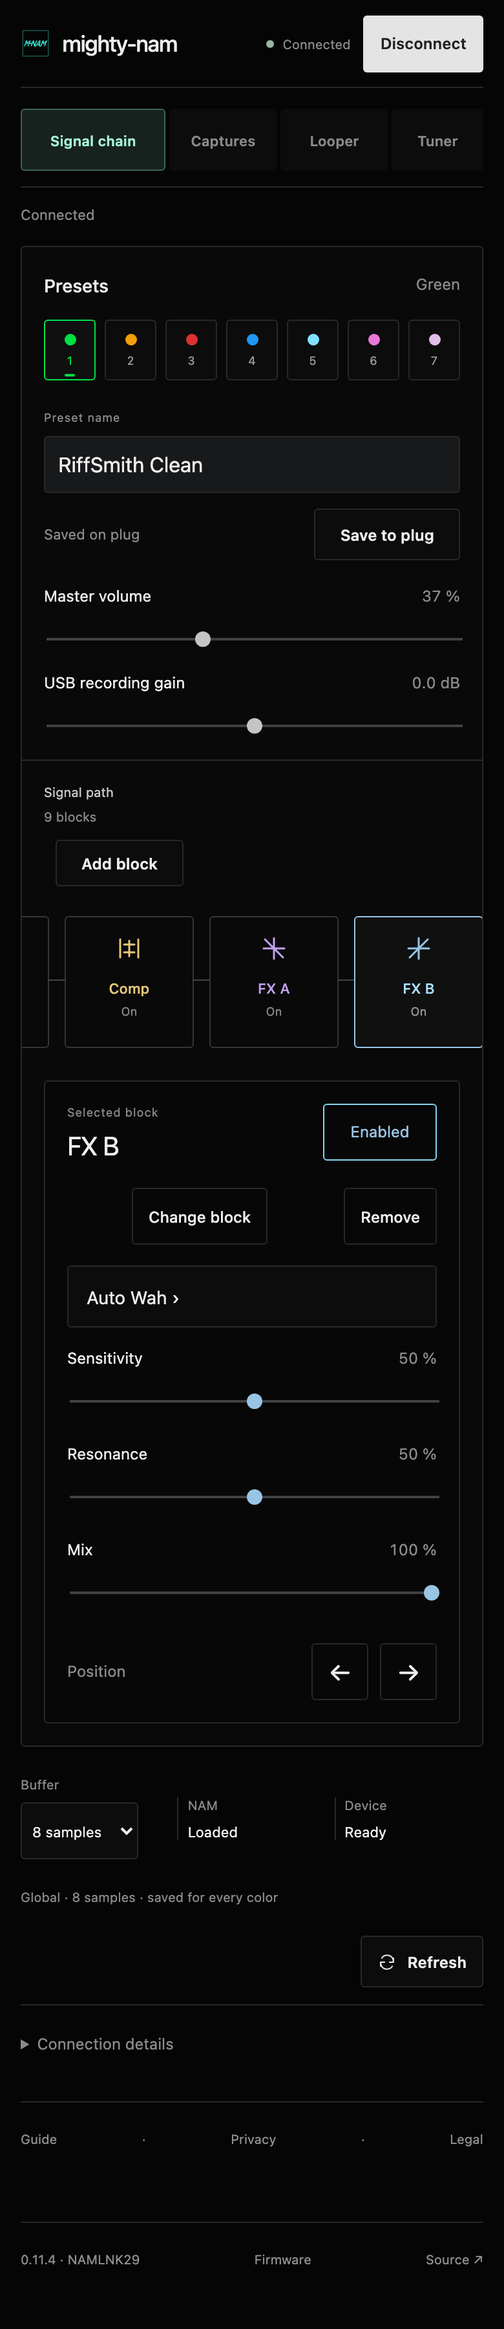
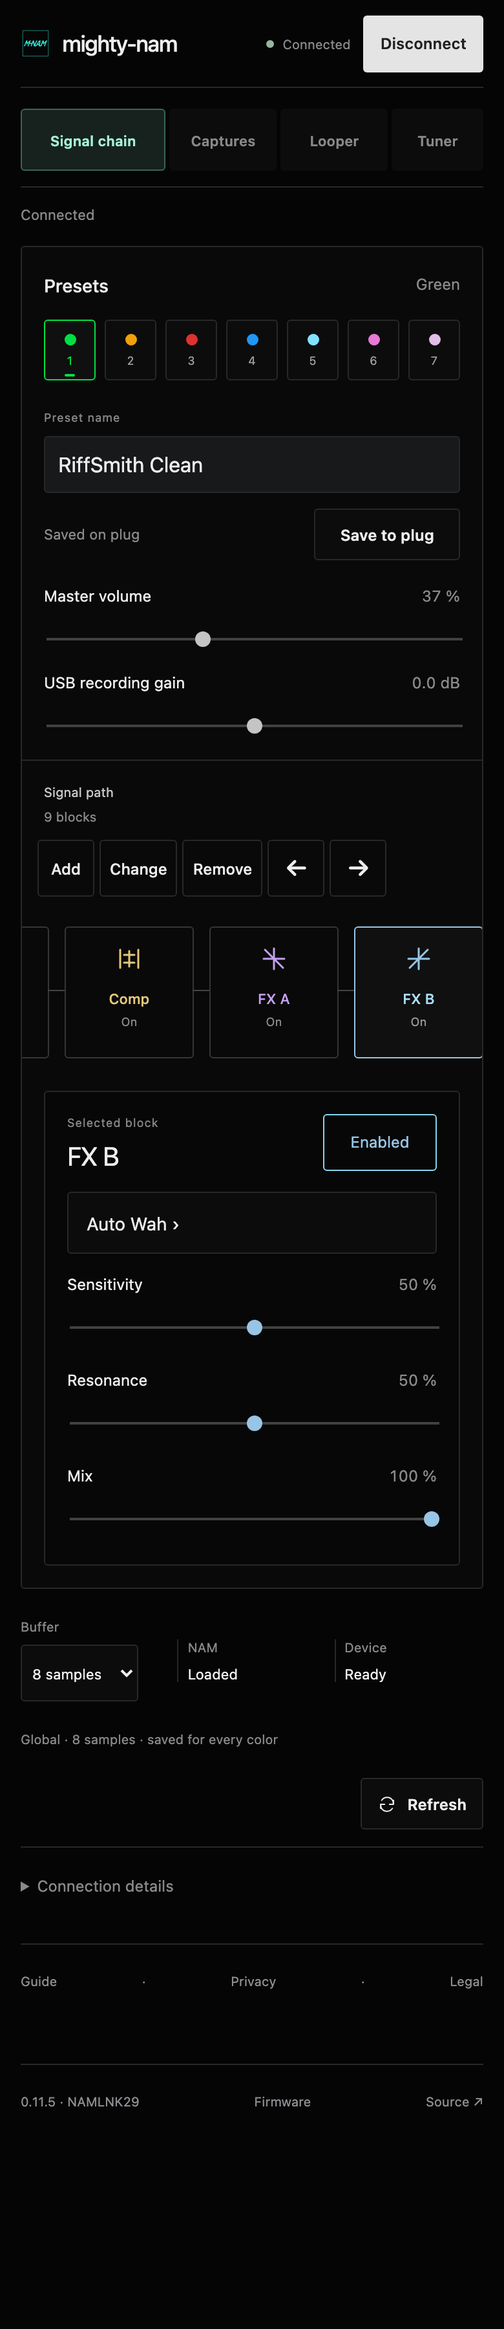
Refresh phone toolbar screenshots and controller links

diff --git a/docs/status.html b/docs/status.html
@@ -1,1 +1,1 @@
-<!doctype html><html lang="en"><head><meta charset="utf-8"><meta name="viewport" content="width=device-width,initial-scale=1"><meta name="theme-color" content="#08090b"><meta name="color-scheme" content="dark"><meta name="description" content="Implemented features, measured results and the next hardware checks."><title>Build status — mighty-nam</title><link rel="icon" href="assets/brand/mighty-nam.svg" type="image/svg+xml"><link rel="apple-touch-icon" href="assets/brand/mighty-nam-icon.png"><link rel="stylesheet" href="assets/style.css?v=0.6.0"></head><body><a class="skip" href="#main">Skip to content</a><header><div class="top"><a class="brand" href="index.html"><img src="assets/brand/mighty-nam.svg" alt="" width="34" height="34">mighty-nam<span>by santismo</span></a><a class="source" href="https://github.com/santismo/mighty-nam">Source ↗</a></div><nav aria-label="Main"><a href="index.html">Overview</a><a href="guide.html">Mac & firmware</a><a href="looper-builder.html">Builder</a><a href="phone.html">iPhone</a><a href="status.html" aria-current="page">Status</a><a href="development.html">Develop</a></nav></header><main id="main"><div class="intro"><p class="eyebrow">MIGHTY PLUG PRO · A2 LITE · 48 KHZ</p><h1>Build status</h1><p>Current preview: NAMLNK29 revision 2, Mac 0.6.1 and phone controller 0.11.4. Stock-amp previews are withdrawn.</p><p class="lead">Implemented features, measured results and the next hardware checks.</p></div><section id="current"><h2>Current releases</h2><div class="grid"><article><h3>Mac 0.6.1</h3><p>Public preview with NAMLNK23–29 support and both wah choices on 24–29, persistent official capture browsing, bounded API lists and updated branding/notices. Ad-hoc signed; not notarized.</p></article><article><h3>Phone 0.11.4</h3><p>Live controls, presets, tuner and TONE3000 A2 Lite transfers through Bluefy. Public source and page use mighty-nam-controller.</p></article><article><h3>NAMLNK29 / builder 0.6.2</h3><p>Local builder for the exact public NUX V3.0.5 Original file. Starts with all seven editable colors, repeating three MIT-licensed RiffSmith A2 Lite captures. End users install their locally generated image with the NUX updater.</p></article></div></section><section id="evidence"><h2>What the evidence says</h2><p>NAMLNK23 executes 12,335 compiled audio callbacks across the offline USB/NAM, stock-chain and dual-pitch suites. Representative effects, 64 stock type switches, bypass skipping, both MIDI paths, seven-color cold/warm recall and global buffer persistence pass. All peripherals and timing are modeled; this is not a physical latency or recovery measurement.</p><p>Mac 0.6.1 and phone 0.11.4 recognize NAMLNK23–29. Mac Settings links to the official NUX downloads, builder and installation guide. Bundled starters are recognized by exact model identity without replacing existing Mac captures.</p><p>Compiled NAMLNK22 checks cover 1,652 USB/NAM callbacks and 2,501 combined-chain callbacks with two pitch blocks, NAM and Spring. The local package’s seven colors match the owner’s Mac presets. Native pitch comparisons match exactly; hardware deadlines remain unmeasured.</p><p>Earlier physical trials demonstrated NAM listening, selected delay/reverb combinations, seven-color power-off recall and phone live controls. The NAMLNK20 baseline exposed the USB audio problem. NAMLNK21/22 repair it offline; Logic input/output still needs a device test.</p><a href="https://github.com/santismo/mighty-nam/tree/main/evidence/namlnk22">Inspect NAMLNK22 evidence ↗</a></section><section id="starters"><h2>Public starter presets</h2><p>Three RiffSmith models passed 4,800 compiled ARM callbacks, emulated cold boot and six physical-button-handler transitions. Each was also compared for 48,000 samples against the independent NAM reference; maximum error was below 0.00002. These are offline checks with modeled peripherals.</p><p>NAMLNK23 was installed on the development unit, where three private captures were transferred, saved and recalled, and the user confirmed guitar audio. The new public starter-bank variant has not been flashed or listened to. Physical timing, power-cycle persistence for this variant and Logic duplex operation remain unverified.</p><a href="https://github.com/santismo/mighty-nam/tree/main/evidence/namlnk23">NAMLNK23 evidence →</a></section><section id="bluetooth"><h2>Bluetooth playback</h2><p>The current builder retains the NAMLNK23 r2 fix, restoring the independent stereo phone-music path. The owner reports successful playback on the development unit. Stereo routing, guitar isolation and the three public starters pass offline checks; this is not broad device certification. The audio path remains independent of controller volume displays.</p></section><section id="looper-trial"><h2>Looper preview</h2><p>NAMLNK25 recorded and played a loop through three preset colors on the development plug. NAMLNK27 fixes overdub block continuity, short physical PRESET taps and adds a live threshold meter. NAMLNK28 adds saved threshold, level and duration, a 100% default loop level and revised gestures.</p><p>The latest builder offers NAMLNK29 revision 2 with seven populated colors and NAMLNK28 / NAMLNK23 r2 with three. All use the same three licensed captures. NAMLNK29 adds reusable independent lanes, one-edit undo/redo and a stale flash-readback fix for saving all seven slots. Offline checks cover 2,700,000 eight-sample callbacks, 86 NAM model changes, recording memory limits, multipass edits, undo/redo, preset continuity, startup and interrupted settings writes. The exact NAMLNK29 revision 2 starter bank passes 11,200 compiled ARM callbacks, startup playback and seven-color cycling. A separate stale CPU-read model reproduces the original slot-four storage error; 21 saves/overwrites, random recalls, restart/cycling and failed-write preservation pass with the added cache invalidation. The physical cause and fix remain unconfirmed. Audio processing and NAM memory placement are unchanged. <a href="https://github.com/santismo/mighty-nam/tree/main/evidence/namlnk29-r2">Revision 2 evidence</a>. These are modeled tests, not physical timing measurements. This exact build still needs a hardware trial.</p><p><a href="guide.html#gestures">Button gestures</a> · <a href="looper-builder.html">Choose a firmware version</a></p></section><section id="roadmap"><h2>Next</h2><ul><li>Pitch quality and processing headroom on the physical plug.</li><li>Logic stereo recording/playback, USB gain and control traffic together.</li><li>iPhone transfer/reconnect and tuner cadence checks.</li><li>Analog latency measurements; DMA timing work stays experimental.</li><li>Daisy-derived wah and looper are included in the latest local-build preview. Independent lanes, saved settings and seven-slot writes need a NAMLNK29 hardware trial. Older NAMLNK28 and NAMLNK23 r2 outputs remain byte-for-byte unchanged. <a href="https://github.com/santismo/mighty-nam/blob/main/docs/wah-prototype.md">Wah research</a> · <a href="https://github.com/santismo/mighty-nam/blob/main/docs/looper-research.md">Looper controls and memory</a>.</li></ul></section><section id="limits"><h2>Known limits</h2><p>A2 Lite at 48 kHz only; full A2 and arbitrary architectures are unsupported. Heavy effect combinations may exceed deadlines. No complete bootloader backup, guaranteed recovery, firmware-preserving update, stable release certification is claimed.</p></section></main><footer><div><a href="https://github.com/santismo/mighty-nam/blob/main/LICENSE">MIT © 2026 santismo</a><a href="https://github.com/santismo/mighty-nam/blob/main/THIRD_PARTY_NOTICES.md">Third-party notices</a><a href="https://github.com/santismo/mighty-nam/blob/main/LEGAL.md">Legal</a><a href="https://github.com/santismo/mighty-nam/blob/main/PRIVACY.md">Privacy</a></div><p>Independent project. NUX firmware, hardware and creator captures have separate rights.</p><a class="powered" href="https://www.tone3000.com"><span>Powered by</span><img src="assets/brand/tone3000.svg" alt="TONE3000" width="110" height="25"></a></footer></body></html>
+<!doctype html><html lang="en"><head><meta charset="utf-8"><meta name="viewport" content="width=device-width,initial-scale=1"><meta name="theme-color" content="#08090b"><meta name="color-scheme" content="dark"><meta name="description" content="Implemented features, measured results and the next hardware checks."><title>Build status — mighty-nam</title><link rel="icon" href="assets/brand/mighty-nam.svg" type="image/svg+xml"><link rel="apple-touch-icon" href="assets/brand/mighty-nam-icon.png"><link rel="stylesheet" href="assets/style.css?v=0.6.0"></head><body><a class="skip" href="#main">Skip to content</a><header><div class="top"><a class="brand" href="index.html"><img src="assets/brand/mighty-nam.svg" alt="" width="34" height="34">mighty-nam<span>by santismo</span></a><a class="source" href="https://github.com/santismo/mighty-nam">Source ↗</a></div><nav aria-label="Main"><a href="index.html">Overview</a><a href="guide.html">Mac & firmware</a><a href="looper-builder.html">Builder</a><a href="phone.html">iPhone</a><a href="status.html" aria-current="page">Status</a><a href="development.html">Develop</a></nav></header><main id="main"><div class="intro"><p class="eyebrow">MIGHTY PLUG PRO · A2 LITE · 48 KHZ</p><h1>Build status</h1><p>Current preview: NAMLNK29 revision 2, Mac 0.6.1 and phone controller 0.11.5. Stock-amp previews are withdrawn.</p><p class="lead">Implemented features, measured results and the next hardware checks.</p></div><section id="current"><h2>Current releases</h2><div class="grid"><article><h3>Mac 0.6.1</h3><p>Public preview with NAMLNK23–29 support and both wah choices on 24–29, persistent official capture browsing, bounded API lists and updated branding/notices. Ad-hoc signed; not notarized.</p></article><article><h3>Phone 0.11.5</h3><p>Live controls, presets, tuner and TONE3000 A2 Lite transfers through Bluefy. Public source and page use mighty-nam-controller.</p></article><article><h3>NAMLNK29 / builder 0.6.2</h3><p>Local builder for the exact public NUX V3.0.5 Original file. Starts with all seven editable colors, repeating three MIT-licensed RiffSmith A2 Lite captures. End users install their locally generated image with the NUX updater.</p></article></div></section><section id="evidence"><h2>What the evidence says</h2><p>NAMLNK23 executes 12,335 compiled audio callbacks across the offline USB/NAM, stock-chain and dual-pitch suites. Representative effects, 64 stock type switches, bypass skipping, both MIDI paths, seven-color cold/warm recall and global buffer persistence pass. All peripherals and timing are modeled; this is not a physical latency or recovery measurement.</p><p>Mac 0.6.1 and phone 0.11.5 recognize NAMLNK23–29. Mac Settings links to the official NUX downloads, builder and installation guide. Bundled starters are recognized by exact model identity without replacing existing Mac captures.</p><p>Compiled NAMLNK22 checks cover 1,652 USB/NAM callbacks and 2,501 combined-chain callbacks with two pitch blocks, NAM and Spring. The local package’s seven colors match the owner’s Mac presets. Native pitch comparisons match exactly; hardware deadlines remain unmeasured.</p><p>Earlier physical trials demonstrated NAM listening, selected delay/reverb combinations, seven-color power-off recall and phone live controls. The NAMLNK20 baseline exposed the USB audio problem. NAMLNK21/22 repair it offline; Logic input/output still needs a device test.</p><a href="https://github.com/santismo/mighty-nam/tree/main/evidence/namlnk22">Inspect NAMLNK22 evidence ↗</a></section><section id="starters"><h2>Public starter presets</h2><p>Three RiffSmith models passed 4,800 compiled ARM callbacks, emulated cold boot and six physical-button-handler transitions. Each was also compared for 48,000 samples against the independent NAM reference; maximum error was below 0.00002. These are offline checks with modeled peripherals.</p><p>NAMLNK23 was installed on the development unit, where three private captures were transferred, saved and recalled, and the user confirmed guitar audio. The new public starter-bank variant has not been flashed or listened to. Physical timing, power-cycle persistence for this variant and Logic duplex operation remain unverified.</p><a href="https://github.com/santismo/mighty-nam/tree/main/evidence/namlnk23">NAMLNK23 evidence →</a></section><section id="bluetooth"><h2>Bluetooth playback</h2><p>The current builder retains the NAMLNK23 r2 fix, restoring the independent stereo phone-music path. The owner reports successful playback on the development unit. Stereo routing, guitar isolation and the three public starters pass offline checks; this is not broad device certification. The audio path remains independent of controller volume displays.</p></section><section id="looper-trial"><h2>Looper preview</h2><p>NAMLNK25 recorded and played a loop through three preset colors on the development plug. NAMLNK27 fixes overdub block continuity, short physical PRESET taps and adds a live threshold meter. NAMLNK28 adds saved threshold, level and duration, a 100% default loop level and revised gestures.</p><p>The latest builder offers NAMLNK29 revision 2 with seven populated colors and NAMLNK28 / NAMLNK23 r2 with three. All use the same three licensed captures. NAMLNK29 adds reusable independent lanes, one-edit undo/redo and a stale flash-readback fix for saving all seven slots. Offline checks cover 2,700,000 eight-sample callbacks, 86 NAM model changes, recording memory limits, multipass edits, undo/redo, preset continuity, startup and interrupted settings writes. The exact NAMLNK29 revision 2 starter bank passes 11,200 compiled ARM callbacks, startup playback and seven-color cycling. A separate stale CPU-read model reproduces the original slot-four storage error; 21 saves/overwrites, random recalls, restart/cycling and failed-write preservation pass with the added cache invalidation. The physical cause and fix remain unconfirmed. Audio processing and NAM memory placement are unchanged. <a href="https://github.com/santismo/mighty-nam/tree/main/evidence/namlnk29-r2">Revision 2 evidence</a>. These are modeled tests, not physical timing measurements. This exact build still needs a hardware trial.</p><p><a href="guide.html#gestures">Button gestures</a> · <a href="looper-builder.html">Choose a firmware version</a></p></section><section id="roadmap"><h2>Next</h2><ul><li>Pitch quality and processing headroom on the physical plug.</li><li>Logic stereo recording/playback, USB gain and control traffic together.</li><li>iPhone transfer/reconnect and tuner cadence checks.</li><li>Analog latency measurements; DMA timing work stays experimental.</li><li>Daisy-derived wah and looper are included in the latest local-build preview. Independent lanes, saved settings and seven-slot writes need a NAMLNK29 hardware trial. Older NAMLNK28 and NAMLNK23 r2 outputs remain byte-for-byte unchanged. <a href="https://github.com/santismo/mighty-nam/blob/main/docs/wah-prototype.md">Wah research</a> · <a href="https://github.com/santismo/mighty-nam/blob/main/docs/looper-research.md">Looper controls and memory</a>.</li></ul></section><section id="limits"><h2>Known limits</h2><p>A2 Lite at 48 kHz only; full A2 and arbitrary architectures are unsupported. Heavy effect combinations may exceed deadlines. No complete bootloader backup, guaranteed recovery, firmware-preserving update, stable release certification is claimed.</p></section></main><footer><div><a href="https://github.com/santismo/mighty-nam/blob/main/LICENSE">MIT © 2026 santismo</a><a href="https://github.com/santismo/mighty-nam/blob/main/THIRD_PARTY_NOTICES.md">Third-party notices</a><a href="https://github.com/santismo/mighty-nam/blob/main/LEGAL.md">Legal</a><a href="https://github.com/santismo/mighty-nam/blob/main/PRIVACY.md">Privacy</a></div><p>Independent project. NUX firmware, hardware and creator captures have separate rights.</p><a class="powered" href="https://www.tone3000.com"><span>Powered by</span><img src="assets/brand/tone3000.svg" alt="TONE3000" width="110" height="25"></a></footer></body></html>

diff --git a/docs/phone.html b/docs/phone.html
@@ -1,1 +1,1 @@
-<!doctype html><html lang="en"><head><meta charset="utf-8"><meta name="viewport" content="width=device-width,initial-scale=1"><meta name="theme-color" content="#08090b"><meta name="color-scheme" content="dark"><meta name="description" content="Bluefy connects the web page to your plug. A Home Screen shortcut gets you there in one tap."><title>Your iPhone controller — mighty-nam</title><link rel="icon" href="assets/brand/mighty-nam.svg" type="image/svg+xml"><link rel="apple-touch-icon" href="assets/brand/mighty-nam-icon.png"><link rel="stylesheet" href="assets/style.css?v=0.6.0"></head><body><a class="skip" href="#main">Skip to content</a><header><div class="top"><a class="brand" href="index.html"><img src="assets/brand/mighty-nam.svg" alt="" width="34" height="34">mighty-nam<span>by santismo</span></a><a class="source" href="https://github.com/santismo/mighty-nam">Source ↗</a></div><nav aria-label="Main"><a href="index.html">Overview</a><a href="guide.html">Mac & firmware</a><a href="looper-builder.html">Builder</a><a href="phone.html" aria-current="page">iPhone</a><a href="status.html">Status</a><a href="development.html">Develop</a></nav></header><main id="main"><div class="intro"><p class="eyebrow">MIGHTY PLUG PRO · A2 LITE · 48 KHZ</p><h1>Your iPhone controller</h1><p class="lead">Bluefy connects the web page to your plug. A Home Screen shortcut gets you there in one tap.</p></div><section id="bluefy"><h2>1. Install Bluefy</h2><p>Get <a href="https://apps.apple.com/us/app/bluefy-web-ble-browser/id1492822055">Bluefy — Web BLE Browser</a> by PNN SOFT. The App Store currently lists it as free. Enable Bluetooth and allow Bluefy to use it.</p><p>Open this address <strong>inside Bluefy</strong>:</p><pre>https://santismo.github.io/mighty-nam-controller/</pre><div class="actions"><a class="button primary" href="bluefy://open?url=https%3A%2F%2Fsantismo.github.io%2Fmighty-nam-controller%2F">Open in Bluefy ↗</a><a href="https://santismo.github.io/mighty-nam-controller/?v=0.11.4">Open controller</a></div><p class="meta">The app-launch link needs an iPhone check. If it does not open the page, paste the HTTPS address into Bluefy and bookmark it.</p></section><section id="connect"><h2>2. Connect the plug</h2><ol><li>Power on normally. Blinking-blue updater mode is not the controller mode.</li><li>Disconnect the Mac app and other Bluetooth controllers.</li><li>Tap Connect on the page and select your Mighty Plug Pro. Its Bluetooth name can still be the manufacturer’s name.</li><li>Wait for Ready. Select a color or block to edit it. Save to plug only when you want the changes stored.</li></ol><p>Usually no pairing in iOS Settings is needed: the page opens the device picker. See <a href="https://bluefy.app/guide.html">Bluefy’s connection guide</a>. Safari Home Screen web apps do not replace Bluefy’s Bluetooth support.</p></section><section id="shortcut"><h2>3. Add mighty nam to your Home Screen</h2><div class="icon-download"><img src="assets/brand/mighty-nam-icon.png" alt="Turquoise M-NAM shortcut icon" width="96" height="96"><div class="actions"><a class="button primary" href="downloads/mighty-nam.shortcut" download="mighty nam.shortcut">Download iPhone shortcut ↓</a><a class="button" href="assets/brand/mighty-nam-icon.png" download="mighty-nam-icon.png">Download icon ↓</a></div></div><ol><li>Install Bluefy first, then download and open <strong>mighty nam.shortcut</strong> on your iPhone. If the browser saves it to Files, open it there. Add it to Apple Shortcuts.</li><li>Run <strong>mighty nam</strong> once. Allow it to open Bluefy if asked.</li><li>In Shortcuts, open its name menu or details → <strong>Add to Home Screen</strong>.</li><li>Tap the icon → <strong>Choose File</strong> and select the downloaded M-NAM PNG. Keep the name <strong>mighty nam</strong>, then tap Add.</li></ol><p class="meta">The launcher is signed for sharing with anyone and contains only URL + Open URLs actions. iOS requires you to add the Home Screen icon yourself; downloading a shortcut cannot silently install it. Launching Bluefy from this file still needs an iPhone check.</p><details><summary>Manual setup</summary><p>Create a shortcut named mighty nam with a URL action followed by Open URLs. Use:</p><pre class="break">bluefy://open?url=https%3A%2F%2Fsantismo.github.io%2Fmighty-nam-controller%2F</pre><p>If your Bluefy version does not handle the launch link, bookmark the controller inside Bluefy and use Open App → Bluefy instead.</p></details><p><a href="https://support.apple.com/guide/shortcuts/apd735880972/ios">Apple: Add to Home Screen</a> · <a href="https://support.apple.com/guide/shortcuts/share-shortcuts-apdf01f8c054/ios">Apple: Shared shortcut files</a></p></section><section id="captures"><h2>4. Browse TONE3000</h2><p>Open Captures → Browse TONE3000, sign in, and select a tone. Load its compatible 48 kHz A2 Lite model. The picker opens in a separate tab so the controller stays open. Select a capture, return to the controller and load its A2 Lite model. It keeps the connection where iOS permits, or attempts to reconnect to the same plug if the phone suspended it. If iOS denies that reconnect, tap Connect. Wait for confirmation that the capture is active. The capture browser stays open. Star multiple favorites; Save to plug separately stores the selected capture with a color.</p><p>Keep the page open during transfer or saving. Phone favorites are local, not TONE3000 account favorites. Clearing browser data removes local downloads; it does not erase onboard presets.</p></section><section id="tuner"><h2>Tuner and buffer</h2><p>Open Tuner and pluck one string. Note detection runs on the plug; Bluetooth reporting adds time. Close the tuner to return to playing. Buffer choices are confirmed by the device and save globally on NAMLNK18+. Lower buffering does not remove the delay inherent in pitch or modulation effects.</p></section><section id="looper"><h2>Looper</h2><p>NAMLNK28 adds saved threshold, level and duration, and direct preset-back and overdub gestures. Open Looper to arm, finish, pause, resume, overdub or clear. The input meter is drawn on the threshold slider. New settings use −50 dB and 100% loop level; level can be lowered. Save looper settings stores changes across power-off after the retained loop is cleared. Loops themselves are not saved.</p><p>Use any of seven colors. Tap an empty color to save the current capture there, or choose Save to plug and select a destination. A retained loop must be cleared before writing presets; switching existing presets and live edits remain available.</p><p><a href="guide.html#gestures">All plug button gestures →</a></p></section></main><footer><div><a href="https://github.com/santismo/mighty-nam/blob/main/LICENSE">MIT © 2026 santismo</a><a href="https://github.com/santismo/mighty-nam/blob/main/THIRD_PARTY_NOTICES.md">Third-party notices</a><a href="https://github.com/santismo/mighty-nam/blob/main/LEGAL.md">Legal</a><a href="https://github.com/santismo/mighty-nam/blob/main/PRIVACY.md">Privacy</a></div><p>Independent project. NUX firmware, hardware and creator captures have separate rights.</p><a class="powered" href="https://www.tone3000.com"><span>Powered by</span><img src="assets/brand/tone3000.svg" alt="TONE3000" width="110" height="25"></a></footer></body></html>
+<!doctype html><html lang="en"><head><meta charset="utf-8"><meta name="viewport" content="width=device-width,initial-scale=1"><meta name="theme-color" content="#08090b"><meta name="color-scheme" content="dark"><meta name="description" content="Bluefy connects the web page to your plug. A Home Screen shortcut gets you there in one tap."><title>Your iPhone controller — mighty-nam</title><link rel="icon" href="assets/brand/mighty-nam.svg" type="image/svg+xml"><link rel="apple-touch-icon" href="assets/brand/mighty-nam-icon.png"><link rel="stylesheet" href="assets/style.css?v=0.6.0"></head><body><a class="skip" href="#main">Skip to content</a><header><div class="top"><a class="brand" href="index.html"><img src="assets/brand/mighty-nam.svg" alt="" width="34" height="34">mighty-nam<span>by santismo</span></a><a class="source" href="https://github.com/santismo/mighty-nam">Source ↗</a></div><nav aria-label="Main"><a href="index.html">Overview</a><a href="guide.html">Mac & firmware</a><a href="looper-builder.html">Builder</a><a href="phone.html" aria-current="page">iPhone</a><a href="status.html">Status</a><a href="development.html">Develop</a></nav></header><main id="main"><div class="intro"><p class="eyebrow">MIGHTY PLUG PRO · A2 LITE · 48 KHZ</p><h1>Your iPhone controller</h1><p class="lead">Bluefy connects the web page to your plug. A Home Screen shortcut gets you there in one tap.</p></div><section id="bluefy"><h2>1. Install Bluefy</h2><p>Get <a href="https://apps.apple.com/us/app/bluefy-web-ble-browser/id1492822055">Bluefy — Web BLE Browser</a> by PNN SOFT. The App Store currently lists it as free. Enable Bluetooth and allow Bluefy to use it.</p><p>Open this address <strong>inside Bluefy</strong>:</p><pre>https://santismo.github.io/mighty-nam-controller/</pre><div class="actions"><a class="button primary" href="bluefy://open?url=https%3A%2F%2Fsantismo.github.io%2Fmighty-nam-controller%2F">Open in Bluefy ↗</a><a href="https://santismo.github.io/mighty-nam-controller/?v=0.11.5">Open controller</a></div><p class="meta">The app-launch link needs an iPhone check. If it does not open the page, paste the HTTPS address into Bluefy and bookmark it.</p></section><section id="connect"><h2>2. Connect the plug</h2><ol><li>Power on normally. Blinking-blue updater mode is not the controller mode.</li><li>Disconnect the Mac app and other Bluetooth controllers.</li><li>Tap Connect on the page and select your Mighty Plug Pro. Its Bluetooth name can still be the manufacturer’s name.</li><li>Wait for Ready. Select a color or block to edit it. Save to plug only when you want the changes stored.</li></ol><p>Usually no pairing in iOS Settings is needed: the page opens the device picker. See <a href="https://bluefy.app/guide.html">Bluefy’s connection guide</a>. Safari Home Screen web apps do not replace Bluefy’s Bluetooth support.</p></section><section id="shortcut"><h2>3. Add mighty nam to your Home Screen</h2><div class="icon-download"><img src="assets/brand/mighty-nam-icon.png" alt="Turquoise M-NAM shortcut icon" width="96" height="96"><div class="actions"><a class="button primary" href="downloads/mighty-nam.shortcut" download="mighty nam.shortcut">Download iPhone shortcut ↓</a><a class="button" href="assets/brand/mighty-nam-icon.png" download="mighty-nam-icon.png">Download icon ↓</a></div></div><ol><li>Install Bluefy first, then download and open <strong>mighty nam.shortcut</strong> on your iPhone. If the browser saves it to Files, open it there. Add it to Apple Shortcuts.</li><li>Run <strong>mighty nam</strong> once. Allow it to open Bluefy if asked.</li><li>In Shortcuts, open its name menu or details → <strong>Add to Home Screen</strong>.</li><li>Tap the icon → <strong>Choose File</strong> and select the downloaded M-NAM PNG. Keep the name <strong>mighty nam</strong>, then tap Add.</li></ol><p class="meta">The launcher is signed for sharing with anyone and contains only URL + Open URLs actions. iOS requires you to add the Home Screen icon yourself; downloading a shortcut cannot silently install it. Launching Bluefy from this file still needs an iPhone check.</p><details><summary>Manual setup</summary><p>Create a shortcut named mighty nam with a URL action followed by Open URLs. Use:</p><pre class="break">bluefy://open?url=https%3A%2F%2Fsantismo.github.io%2Fmighty-nam-controller%2F</pre><p>If your Bluefy version does not handle the launch link, bookmark the controller inside Bluefy and use Open App → Bluefy instead.</p></details><p><a href="https://support.apple.com/guide/shortcuts/apd735880972/ios">Apple: Add to Home Screen</a> · <a href="https://support.apple.com/guide/shortcuts/share-shortcuts-apdf01f8c054/ios">Apple: Shared shortcut files</a></p></section><section id="captures"><h2>4. Browse TONE3000</h2><p>Open Captures → Browse TONE3000, sign in, and select a tone. Load its compatible 48 kHz A2 Lite model. The picker opens in a separate tab so the controller stays open. Select a capture, return to the controller and load its A2 Lite model. It keeps the connection where iOS permits, or attempts to reconnect to the same plug if the phone suspended it. If iOS denies that reconnect, tap Connect. Wait for confirmation that the capture is active. The capture browser stays open. Star multiple favorites; Save to plug separately stores the selected capture with a color.</p><p>Keep the page open during transfer or saving. Phone favorites are local, not TONE3000 account favorites. Clearing browser data removes local downloads; it does not erase onboard presets.</p></section><section id="tuner"><h2>Tuner and buffer</h2><p>Open Tuner and pluck one string. Note detection runs on the plug; Bluetooth reporting adds time. Close the tuner to return to playing. Buffer choices are confirmed by the device and save globally on NAMLNK18+. Lower buffering does not remove the delay inherent in pitch or modulation effects.</p></section><section id="looper"><h2>Looper</h2><p>NAMLNK28 adds saved threshold, level and duration, and direct preset-back and overdub gestures. Open Looper to arm, finish, pause, resume, overdub or clear. The input meter is drawn on the threshold slider. New settings use −50 dB and 100% loop level; level can be lowered. Save looper settings stores changes across power-off after the retained loop is cleared. Loops themselves are not saved.</p><p>Use any of seven colors. Tap an empty color to save the current capture there, or choose Save to plug and select a destination. A retained loop must be cleared before writing presets; switching existing presets and live edits remain available.</p><p><a href="guide.html#gestures">All plug button gestures →</a></p></section></main><footer><div><a href="https://github.com/santismo/mighty-nam/blob/main/LICENSE">MIT © 2026 santismo</a><a href="https://github.com/santismo/mighty-nam/blob/main/THIRD_PARTY_NOTICES.md">Third-party notices</a><a href="https://github.com/santismo/mighty-nam/blob/main/LEGAL.md">Legal</a><a href="https://github.com/santismo/mighty-nam/blob/main/PRIVACY.md">Privacy</a></div><p>Independent project. NUX firmware, hardware and creator captures have separate rights.</p><a class="powered" href="https://www.tone3000.com"><span>Powered by</span><img src="assets/brand/tone3000.svg" alt="TONE3000" width="110" height="25"></a></footer></body></html>

diff --git a/docs/index.html b/docs/index.html
@@ -1,9 +1,9 @@
 <!doctype html><html lang="en"><head><meta charset="utf-8"><meta name="viewport" content="width=device-width,initial-scale=1"><meta name="theme-color" content="#08090b"><meta name="color-scheme" content="dark"><meta name="description" content="Neural Amp Modeler on the Mighty Plug Pro. Edit from your Mac or iPhone, then keep playing without either."><title>Your capture. Your chain. — mighty-nam</title><link rel="icon" href="assets/brand/mighty-nam.svg" type="image/svg+xml"><link rel="apple-touch-icon" href="assets/brand/mighty-nam-icon.png"><link rel="stylesheet" href="assets/style.css?v=0.6.0"></head><body><a class="skip" href="#main">Skip to content</a><header><div class="top"><a class="brand" href="index.html"><img src="assets/brand/mighty-nam.svg" alt="" width="34" height="34">mighty-nam<span>by santismo</span></a><a class="source" href="https://github.com/santismo/mighty-nam">Source ↗</a></div><nav aria-label="Main"><a href="index.html" aria-current="page">Overview</a><a href="guide.html">Mac & firmware</a><a href="looper-builder.html">Builder</a><a href="phone.html">iPhone</a><a href="status.html">Status</a><a href="development.html">Develop</a></nav></header><main id="main"><div class="intro"><p class="eyebrow">MIGHTY PLUG PRO · A2 LITE · 48 KHZ</p><h1>Your capture. Your chain.</h1><p class="lead">Neural Amp Modeler on the Mighty Plug Pro. Edit from your Mac or iPhone, then keep playing without either.</p></div>
-<div class="actions"><a class="button primary" href="https://github.com/santismo/mighty-nam/releases/download/v0.6.1-preview.1/mighty-nam-0.6.1-macOS.dmg">Download for Mac ↓</a><a class="button" href="https://santismo.github.io/mighty-nam-controller/?v=0.11.4">Open phone controller ↗</a><a class="button" href="looper-builder.html">Build latest firmware →</a><a href="phone.html">iPhone setup</a></div><p class="meta">Mac 0.6.1 · Intel + Apple silicon · experimental preview</p>
+<div class="actions"><a class="button primary" href="https://github.com/santismo/mighty-nam/releases/download/v0.6.1-preview.1/mighty-nam-0.6.1-macOS.dmg">Download for Mac ↓</a><a class="button" href="https://santismo.github.io/mighty-nam-controller/?v=0.11.5">Open phone controller ↗</a><a class="button" href="looper-builder.html">Build latest firmware →</a><a href="phone.html">iPhone setup</a></div><p class="meta">Mac 0.6.1 · Intel + Apple silicon · experimental preview</p>
 <section class="showcase" id="controllers"><div class="section-heading"><div><p class="eyebrow">ONE PLUG · TWO CONTROLLERS</p><h2>As little or as much as you need.</h2></div><p>Select a block. Its controls sit below the chain.</p></div>
-<div class="showcase-row"><div class="mac-shot"><h3>Mac · NAM + reverb</h3><a href="assets/screens/mac-small.png?v=29r2"><img src="assets/screens/mac-small.png?v=29r2" width="1440" height="1280" alt="Mac app showing a two-block NAM and reverb chain with NAM gain, tone and mix controls" loading="lazy"></a></div><div class="phone-shot"><h3>Phone · NAM + reverb</h3><a href="assets/screens/phone-small.png?v=29r2"><img src="assets/screens/phone-small.png?v=29r2" width="390" height="1800" alt="Phone controller with NAM and reverb and selected NAM controls" loading="lazy"></a></div></div>
-<div class="showcase-row"><div class="mac-shot"><h3>Mac · expanded chain</h3><a href="assets/screens/mac-full.png?v=29r2"><img src="assets/screens/mac-full.png?v=29r2" width="1440" height="1280" alt="Mac app with an expanded chain including FX A Pitch and FX B Auto Wah, and Pitch controls below" loading="lazy"></a></div><div class="phone-shot"><h3>Phone · expanded chain</h3><a href="assets/screens/phone-full.png?v=29r2"><img src="assets/screens/phone-full.png?v=29r2" width="390" height="1800" alt="Phone controller with an expanded chain and Auto Wah controls" loading="lazy"></a></div></div>
-<p class="meta">Actual controller interfaces with example presets in a simulated connection. Tap an image to enlarge. Effect combinations depend on the plug’s processing budget.</p><p class="meta">Current Mac 0.6.1 and phone 0.11.4 interfaces, rendered with example presets and a simulated connection. Click a screenshot to expand it.</p></section>
+<div class="showcase-row"><div class="mac-shot"><h3>Mac · NAM + reverb</h3><a href="assets/screens/mac-small.png?v=29r2"><img src="assets/screens/mac-small.png?v=29r2" width="1440" height="1280" alt="Mac app showing a two-block NAM and reverb chain with NAM gain, tone and mix controls" loading="lazy"></a></div><div class="phone-shot"><h3>Phone · NAM + reverb</h3><a href="assets/screens/phone-small.png?v=0.11.5"><img src="assets/screens/phone-small.png?v=0.11.5" width="390" height="1800" alt="Phone controller with NAM and reverb and selected NAM controls" loading="lazy"></a></div></div>
+<div class="showcase-row"><div class="mac-shot"><h3>Mac · expanded chain</h3><a href="assets/screens/mac-full.png?v=29r2"><img src="assets/screens/mac-full.png?v=29r2" width="1440" height="1280" alt="Mac app with an expanded chain including FX A Pitch and FX B Auto Wah, and Pitch controls below" loading="lazy"></a></div><div class="phone-shot"><h3>Phone · expanded chain</h3><a href="assets/screens/phone-full.png?v=0.11.5"><img src="assets/screens/phone-full.png?v=0.11.5" width="390" height="1800" alt="Phone controller with an expanded chain and Auto Wah controls" loading="lazy"></a></div></div>
+<p class="meta">Actual controller interfaces with example presets in a simulated connection. Tap an image to enlarge. Effect combinations depend on the plug’s processing budget.</p><p class="meta">Current Mac 0.6.1 and phone 0.11.5 interfaces, rendered with example presets and a simulated connection. Click a screenshot to expand it.</p></section>
 <div class="grid"><article><span class="eyebrow">01 / CAPTURES</span><h2>Browse. Select. Play.</h2><p>Browse TONE3000 for compatible 48 kHz A2 Lite captures. Select one to load it, keep browsing, or save it to a color.</p></article><article><span class="eyebrow">02 / EFFECTS</span><h2>Pitch. Auto Wah. More.</h2><p>FX A and FX B each offer Pitch, Auto Wah, Chorus, Flanger, Phaser, Tremolo and Vibrato. Move either block through your chain alongside stock effects and High / Low Cut EQ.</p><p>Pitch shifts −12 to +12 semitones and is intended for single notes.</p></article><article><span class="eyebrow">03 / PRESETS</span><h2>Seven colors.</h2><p>Each saved color holds a capture and its effects. Select any color in the controller or cycle saved colors with PRESET. Bypass keeps a block; Remove takes it out of the chain.</p><div class="colors" aria-label="Green, Orange, Red, Blue, Cyan, Pink, Lilac"><i style="--c:#51bc79"></i><i style="--c:#ed9d47"></i><i style="--c:#e16464"></i><i style="--c:#629ee9"></i><i style="--c:#55c5d5"></i><i style="--c:#df85ba"></i><i style="--c:#af99ed"></i></div></article></div>
 <section id="firmware"><p class="eyebrow">BUILD LOCALLY · INSTALL WITH NUX</p><h2>Your NUX file. Your mighty-nam build.</h2><p>The builder requires <strong><code>MP3_OR_V3.0.5.bin</code></strong>, the Original firmware from NUX’s public Mighty Plug Pro V3.0.5 package. Extract that file from the NUX ZIP, build mighty-nam locally, then install the generated file with the official NUX updater.</p><div class="actions"><a class="button primary" href="looper-builder.html">Open firmware builder →</a><a class="button" href="guide.html#firmware">Setup guide →</a></div><p>Choose NAMLNK29, NAMLNK28 or NAMLNK23 r2 in the builder. NAMLNK29 revision 2 includes seven editable colors using three MIT-licensed RiffSmith A2 Lite captures: Clean, Bass Clean and Distorted. Add your own captures to any of the seven colors.</p><p class="meta">Experimental NAMLNK29: Bluetooth playback fix, Daisy-derived wah, 30/60-second looper, independent overdub lanes, undo/redo, gestures and live threshold meter. Exact public preset variant tested offline; hardware validation remains incomplete. Installation replaces onboard presets. NUX firmware and its updater are supplied by NUX; this site does not host a complete firmware image. <a href="status.html">Testing and known limits →</a> · <a href="builder-v23.html">Archived NAMLNK23 builder</a> · <a href="https://github.com/santismo/mighty-nam/releases/download/builder-v0.6.2-preview.1/mighty-nam-local-builder-0.6.2.zip">Offline builder download</a></p></section>
 <section><h2>Start where you play.</h2><div class="grid two"><article><h3>Mac over USB</h3><p>Install the app, connect the plug in normal mode, and open the NAM block to choose a capture.</p><a href="guide.html">Mac and firmware guide →</a></article><article><h3>iPhone over Bluetooth</h3><p>Use the free Bluefy browser and the web controller. Add a mighty-nam guitar shortcut to your Home Screen.</p><a href="phone.html">Bluefy and shortcut guide →</a></article></div></section></main><footer><div><a href="https://github.com/santismo/mighty-nam/blob/main/LICENSE">MIT © 2026 santismo</a><a href="https://github.com/santismo/mighty-nam/blob/main/THIRD_PARTY_NOTICES.md">Third-party notices</a><a href="https://github.com/santismo/mighty-nam/blob/main/LEGAL.md">Legal</a><a href="https://github.com/santismo/mighty-nam/blob/main/PRIVACY.md">Privacy</a></div><p>Independent project. NUX firmware, hardware and creator captures have separate rights.</p><a class="powered" href="https://www.tone3000.com"><span>Powered by</span><img src="assets/brand/tone3000.svg" alt="TONE3000" width="110" height="25"></a></footer></body></html>

diff --git a/README.md b/README.md
@@ -10,14 +10,14 @@ This repository contains the firmware experiments, Mac app, protocols and test e
 
 **Amp-model replacement:** The main NAM block replaces the stock NUX amp models. You use NAM captures for the amp sound; the original NUX amp models are not selectable in this firmware. The supported stock effects remain available in the signal chain.
 
-Current downloads: **NAMLNK29 revision 2 local builder**, **Mac 0.6.1**, and **phone controller 0.11.4** (restored 0.10.2 behavior). The stock-amp previews have been withdrawn; NAM remains the amp block.
+Current downloads: **NAMLNK29 revision 2 local builder**, **Mac 0.6.1**, and **phone controller 0.11.5** (restored 0.10.2 behavior). The stock-amp previews have been withdrawn; NAM remains the amp block.
 
 ## Current version
 
 | Component | Status |
 | --- | --- |
 | Mac 0.6.1 | Universal ad-hoc-signed preview. TONE3000 picker stays open while loading captures; seven colored presets; live effects; tuner; master and recording gain; NAM input/output, bass/middle/treble and mix. NAMLNK23–29 support, both wah choices on 24–29, and a Looper panel on 26–29 (live input meter on 27+, saved loop settings on 28+). Independent lane controls are phone-only. Not notarized. |
-| Phone 0.11.4 | Public Bluefy/Web Bluetooth controller with live editing, capture browsing/transfers, favorites, tuner, direct preset selection, FX A/B and global buffering and Looper controls with a live threshold meter on NAMLNK27+, optional saved loop settings on NAMLNK28 and a separate TONE3000 picker that keeps the controller page open. |
+| Phone 0.11.5 | Public Bluefy/Web Bluetooth controller with live editing, capture browsing/transfers, favorites, tuner, direct preset selection, FX A/B and global buffering and Looper controls with a live threshold meter on NAMLNK27+, optional saved loop settings on NAMLNK28 and a separate TONE3000 picker that keeps the controller page open. |
 | Local builder 0.6.2 / NAMLNK29 r2 | Requires the exact public NUX `MP3_OR_V3.0.5.bin`. Includes seven editable colors using three MIT-licensed RiffSmith A2 Lite captures, Daisy-derived Auto Wah, 30/60-second looper, independent overdub lanes, undo/redo, seven-slot save fix, gestures and saved loop settings. Earlier NAMLNK28 and NAMLNK23 r2 remain selectable. Install your locally built image with the official NUX updater. |
 
 The public builder variant passes offline cold-boot, preset-button and audio accuracy checks. NAMLNK23 has limited physical validation with private presets; the new starter bank, pitch timing and Logic duplex operation still need device tests. See [status](https://santismo.github.io/mighty-nam/status.html).
@@ -50,7 +50,7 @@ The [offline builder ZIP](https://github.com/santismo/mighty-nam/releases/downlo
 
 ## Interfaces
 
-Current Mac 0.6.1 and phone 0.11.4, rendered with simulated connections and licensed example captures. Click a screenshot for full size.
+Current Mac 0.6.1 and phone 0.11.5, rendered with simulated connections and licensed example captures. Click a screenshot for full size.
 
 | NAM + reverb | Expanded chain |
 | --- | --- |
@@ -80,4 +80,4 @@ NAMLNK28 local-build preview adds saved looper settings, 100% default loop level
 
 ### Seven-preset NAM-only revision
 
-NAMLNK29 revision 2 adds CPU cache-line invalidation to the existing FlexSPI refresh after preset erase/program operations. An offline stale-read model reproduces the original slot-four save error; repeated writes, readback and restart across seven colors test the fix. This has not yet confirmed the physical cause or the result on hardware. Audio processing, NAM RAM placement, the output queue and controller commands remain on the pre-stock-amp baseline. Mac 0.6.1 and phone 0.11.4 remain compatible.
+NAMLNK29 revision 2 adds CPU cache-line invalidation to the existing FlexSPI refresh after preset erase/program operations. An offline stale-read model reproduces the original slot-four save error; repeated writes, readback and restart across seven colors test the fix. This has not yet confirmed the physical cause or the result on hardware. Audio processing, NAM RAM placement, the output queue and controller commands remain on the pre-stock-amp baseline. Mac 0.6.1 and phone 0.11.5 remain compatible.
